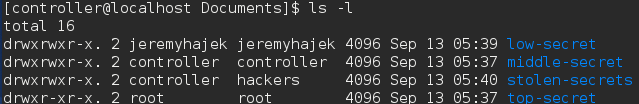
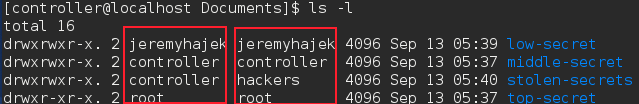
Chapter 05 added new images around ownership permissions
Added new images at 96 DPI to support image clarity

Changed region(s): [[0.1784, 0.2308, 0.5352, 1.0]]

diff --git a/Chapter-05/chapter-05.md b/Chapter-05/chapter-05.md
@@ -384,40 +384,42 @@ The improvements offered by bash over sh, csh, and ksh include:
 
 ![*ls -l listing of the home directory in Fedora 22*](images/Chapter-05/permissions/ls-l-fedora.png "Fedora 22 ls -l listing") 
 
-The first column is a listing of the permissions for a file. Notice that there are actually 3 groupings of the letters __rwx__ combined into one long string like this:  ```rw-r--r--```.  In addition to inducidualy permissions there are three categories of permission.  These three categories are __owner__, __group__, __other__  Each of these groups has its own read write execute permissions.  
+The first column is a listing of the permissions for a file. Notice that there are actually 3 groupings of the letters __rwx__ combined into one long string like this:  ```rw-r--r--```.  In addition to inducidualy permissions there are three categories of permission.  These three categories are __owner__, __group__, __other__  Each of these groups has its own read, write, and execute permissions.  
 
-Every file includes an owner and a group.  If you notice the next two columns in the output of ```ls -la``` you will see them listed.  The group name and owner name can be the same, we will talk more about that in Chapter X.
-
-Permissions can be read in a short hand numeric fashion as well.  The read value is worth 4, the write value is worth 2, the execute value is worth 1  so a permission of ```rw-r--r--``` can be read as 644.  The permissions for rwxrwxrwx is 777.  Numberic value for this is ```rw-------``` is 600.
+Every file includes an owner and a group.  If you notice the next two columns in the output of ```ls -l``` you will see them listed.  The group name and owner name can be the same, we will talk more about that in Chapter X. Permissions can be read in a short hand numeric fashion as well.  The read value is worth 4, the write value is worth 2, the execute value is worth 1  so a permission of ```rw-r--r--``` can be read as 644.  The permissions for rwxrwxrwx is 777.  Numberic value for this is ```rw-------``` is 600.
   
-There is one character either a "-" or a "d" proceeding the file permissions, and this tells "d" for directory and "-" for a file.  There are additional file type characters that I will list here, only the first three we will be dealing with directly in this book [^60].  
+There is one character either a "-" or a "d" generally proceeding the file permissions, and this tells "d" for directory and "-" for a file.  There are additional file type characters that I will list here, only the first three we will be dealing with directly in this book [^60].  
 
- *  files
- *  directories
- *  symbolic links
- *  named pipes
- *  devices (character or block)
- *  sockets 
+File type                 Symbol
+------------------       --------
+__file__                    -
+__directory__               d 
+__symbolic link__           l
+named pipe                  p 
+devices                   b or c 
+sockets                     s
   
 ![*4 most common file types*](images/Chapter-05/permissions/file-types.png "File types") 
  
 ### Owner, Group, Other (World)
 
-  In addition to the rwx permissions, each file has three group permissions associated with it.  The first triad of rwx is the files owner permission--meaning what the person who owns the file can do to it.  These permission are usually more liberal because you trust yourself.
+  In addition to the rwx permissions, each file has three groupings of permissions associated with it.  The first triad of rwx is the file's __owner__ permission--meaning what the person who owns the file can do to it.  These permission are usually more liberal because you trust yourself.
   
-  The second triad of rwx permissions is group permissions.  Each user is assigned to a group upon account creation and additional groups can be created as needed.  You can give group permissions that cascade to all users in a group.
+  The second triad of rwx permissions is __group__ permissions.  Each user is assigned to a group upon account creation and additional groups can be created as needed.  You can give group permissions that cascade to all users in a group.
   
-  The final triad of rwx permissions is considered "other" or "world".  It means what permissions does someone who is not the owner or in the group that owns the file have?  Usually this column is conservatively "read-ony." 
+  The final triad of rwx permissions is considered __other__ or soemtimes called unofficially __world__.  This covers the permissions for a user who is not the owner nor in the group that owns the file. Usually this column is conservatively "read-ony." 
   
-![*Owner, Group, Other*](images/Chapter-05/permissions/ownership.png "Ownership")
+![*Highlighting the permissions in ls -l command*](images/Chapter-05/permissions/full-permissions-2.png "Full Permissions")
+  
+![*Highlighting the file owner and group owner*](images/Chapter-05/permissions/ownership-2.png "Ownership")
 
 ### Tools 
 
-There are a series of commands that can be used to change or augment the owner, group, or permission of a file.  To execute these commands you will need to have administrator privillege.  User accounts and privilleges will be discussed in more detail in Chapter Y.  But for right now we will use the ```sudo``` command in conjunction with these commands.  The ```sudo``` command allows us to temporarily elevate your user privillege from a user level to an admin level in order to modify the attributes of a file.  Just for experience try to execute one of these commands below without the ```sudo``` command.  You will see a permission denied error (number 2 in the 3P's). This command will be covered in depth in chapter 6.
+There are a series of commands that can be used to change or augment the owner, group, or permission of a file.  To execute these commands you will need to have administrator privillege.  User accounts and privilleges will be discussed in more detail in Chapter X.  But for right now we will use the ```sudo``` command in conjunction with these commands.  The ```sudo``` command allows us to temporarily elevate your user privillege from a user level to an admin level in order to modify the attributes of a file.  Just for experience try to execute one of these commands below without the ```sudo``` command.  You will see a permission denied error (number 2 in the 3P's). This command will be covered in depth in chapter 6.
 
-  ```chmod``` 
-  Pronounced *"chuh-mod"*
-   This command allows you to change the permissions or mode of a file.  You can use numeric values to change the permissions all at once.  Or you can use short cuts to assign or remove single permissions.  The outputs look like this:
+#### chmod
+ 
+Pronounced *"chuh-mod"*. This command allows you to change the permissions or mode of a file.  You can use numeric values to change the permissions all at once.  Or you can use short cuts to assign or remove single permissions.  The outputs look like this:
    
  ![*Standard file permissions are 644 - very conservative and secure*](images/Chapter-05/permissions/standard-permission.png "Standard Permissions")
    
@@ -425,15 +427,15 @@ There are a series of commands that can be used to change or augment the owner, 
   
  ![*Same file with write and execute permission enabled*](images/Chapter-05/permissions/standard-permission-chmod.png "Standard Permissions")
   
-  ```chown``` 
-  Pronounced *"chuh-own"*
-  This command allows you to change the owner of a file.  The syntax would be ```sudo chown root todolist```  There is also a shorthand feature that allows you to change the group and the owner at the same time.  ```sudo chown root:root todolist``` the value following the semi-colon will be the new group owner. 
+#### chown
+
+ Pronounced *"chuh-own"*. This command allows you to change the owner of a file.  The syntax would be ```sudo chown root todolist```  There is also a shorthand feature that allows you to change the group and the owner at the same time.  ```sudo chown root:root todolist``` the value following the semi-colon will be the new group owner. 
   
 > __Exercise:__  based on the previous todo-list.txt created in /tmp, issue an ```ls -l``` command - who is the owner of the file?  Who is the group owner? Change it so that the file is owned by root and the group owner is root (remember to use ```sudo```.)
   
-  ```chgrp```
-  Pronounced *"Chuh-gerp"*  
-  This is the change group command.  It works just like ```chown``` but instead only changes the group ownership.
+#### chgrp
+
+Pronounced *"Chuh-gerp"*. This is the change group command.  It works just like ```chown``` but instead only changes the group ownership.
 
 ### ACLs
 
